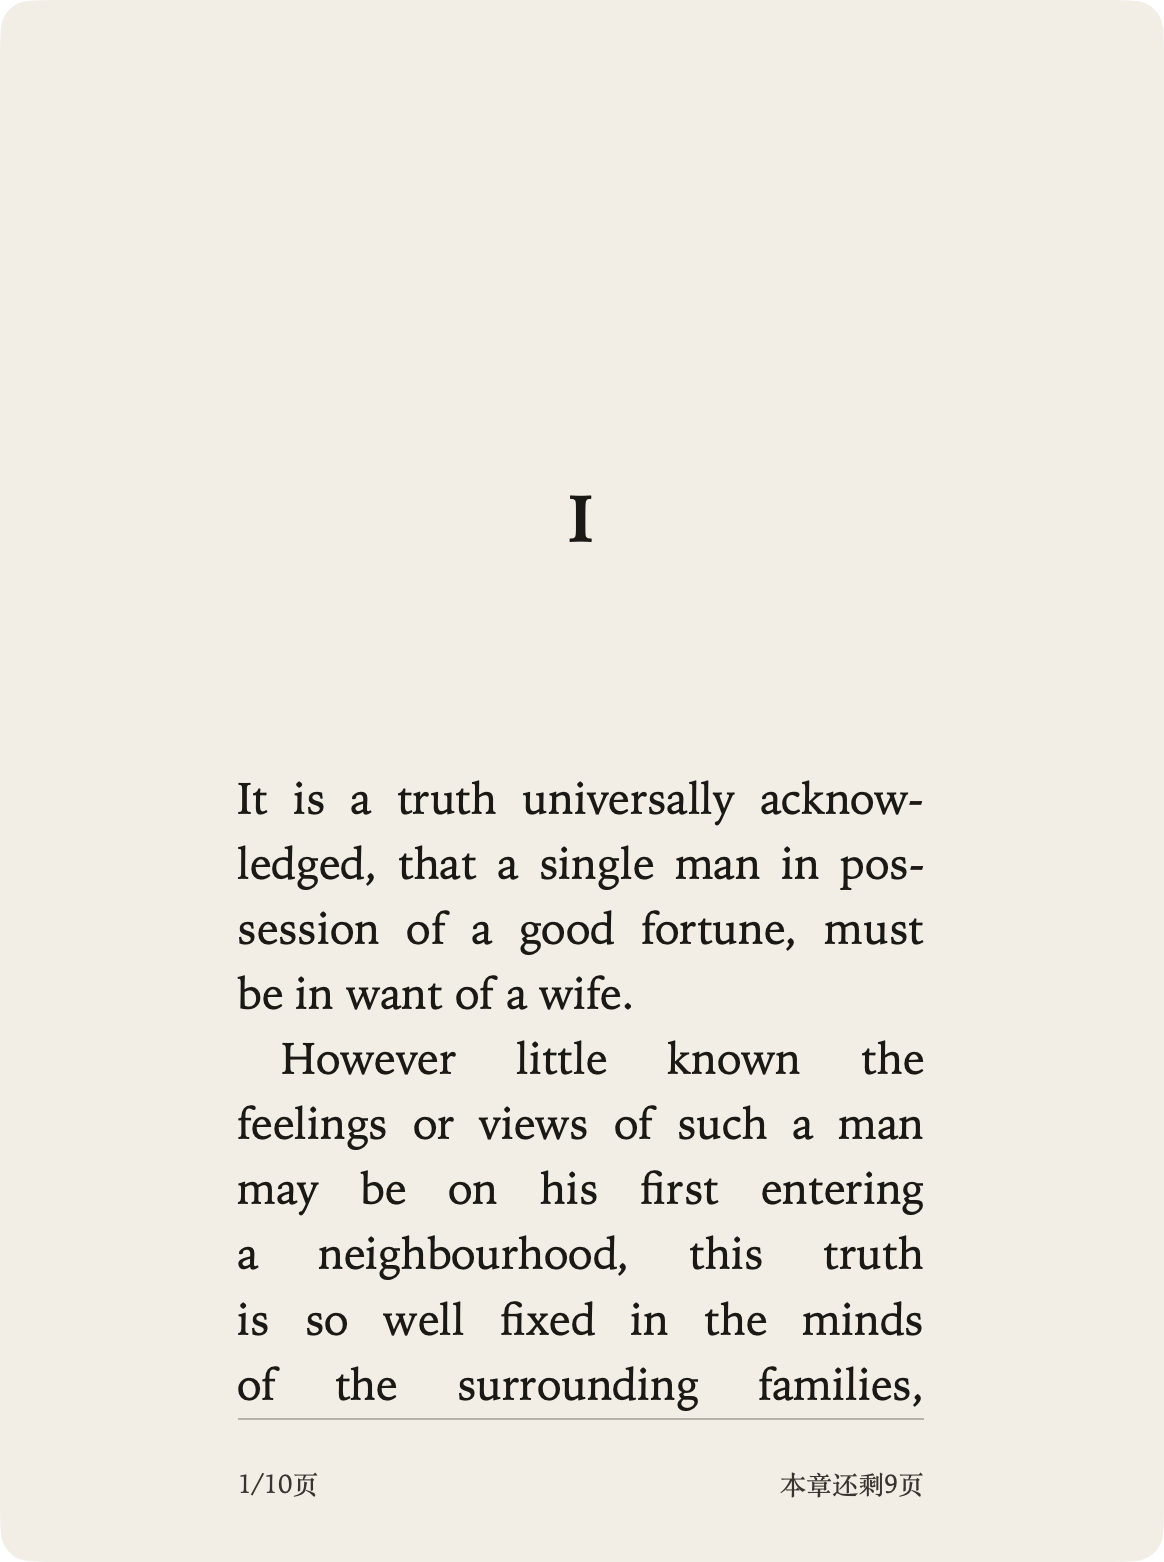
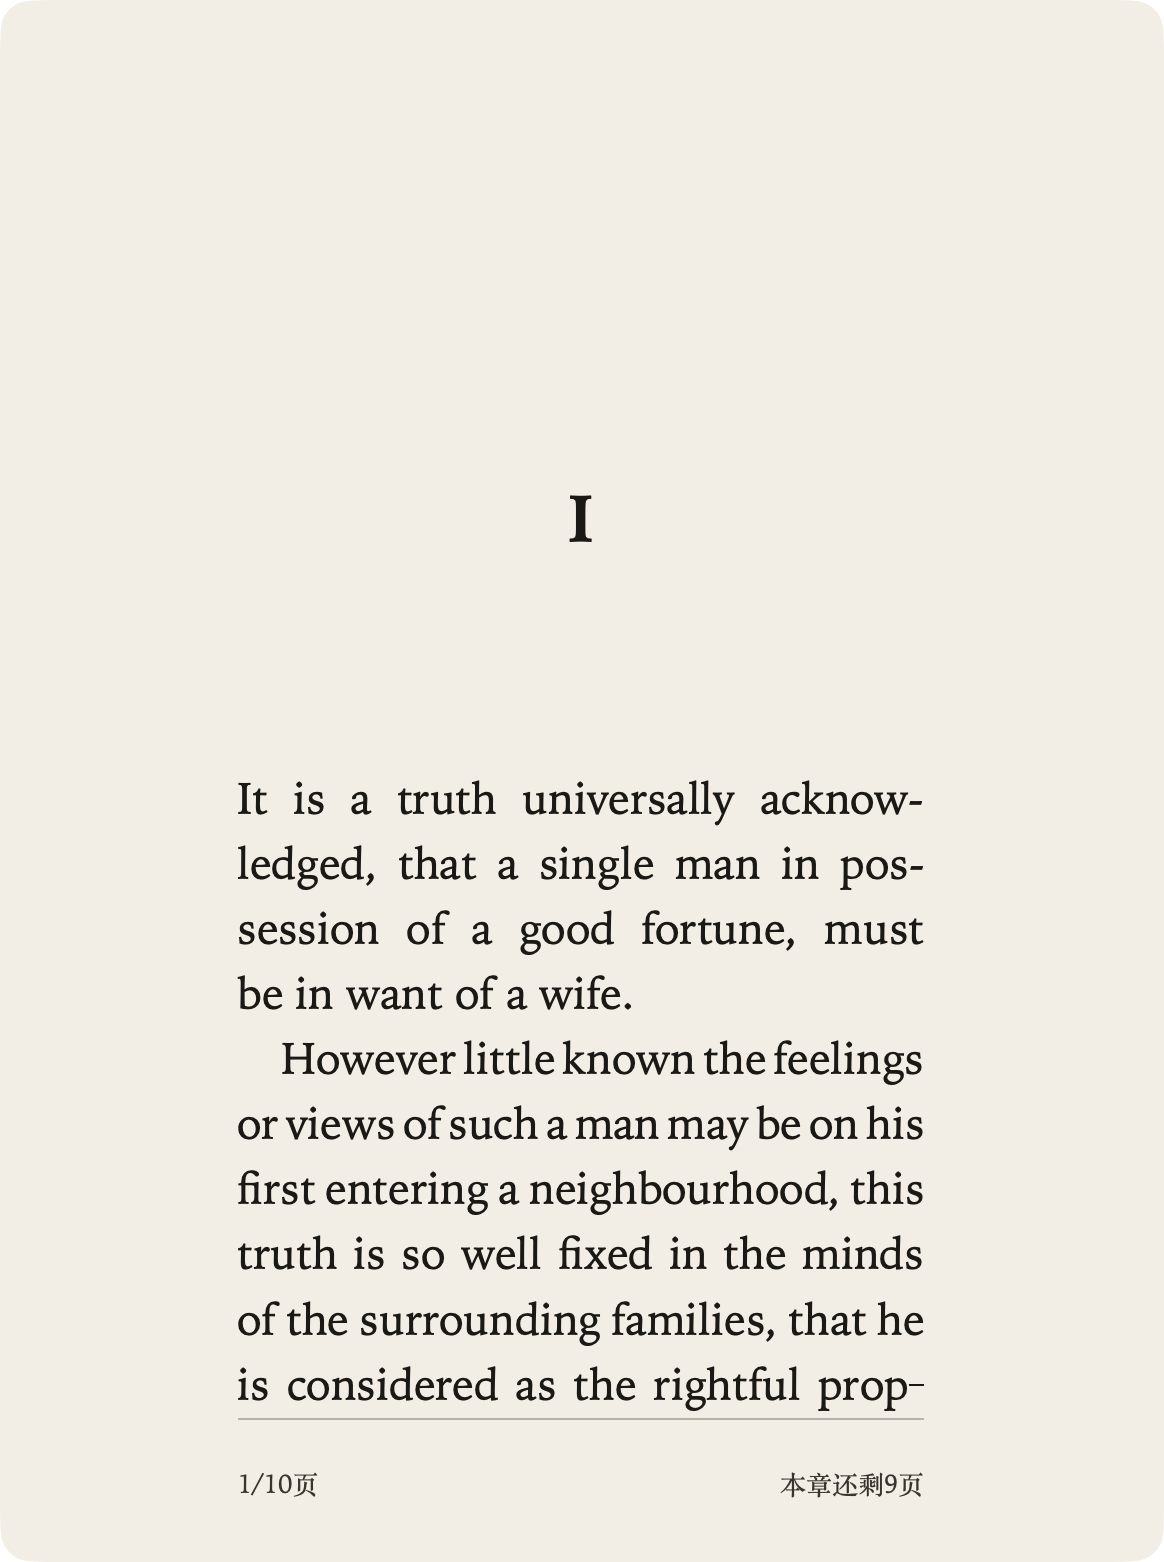
fix(shell): scale full screen from the windowed page
The design page was taken from the visible frame, which grows when the menu bar hides, so the type did not match the open window. The footer insets follow the paragraph's used padding.

Changed region(s): [[0.1856, 0.6453, 0.8041, 0.9219]]

diff --git a/spikes/shell/src/chrome.rs b/spikes/shell/src/chrome.rs
@@ -46,6 +46,7 @@ pub struct Runtime {
     styled: Cell<bool>,
     entering: Cell<bool>,
     field: RefCell<Option<Retained<NSTextField>>>,
+    pub design_visible: Cell<(f64, f64)>,
 }
 
 impl Default for Runtime {
@@ -73,6 +74,7 @@ impl Default for Runtime {
             styled: Cell::new(false),
             entering: Cell::new(false),
             field: RefCell::new(None),
+            design_visible: Cell::new((0.0, 0.0)),
         }
     }
 }
@@ -120,15 +122,30 @@ pub fn content_box(stage_w: f64, stage_h: f64) -> (f64, f64, f64, f64) {
     (box_w, box_h, SIDE, TOP)
 }
 
-pub fn reading_page(ratio_w: f64, ratio_h: f64) -> (f64, f64) {
+pub fn reading_page(
+    ratio_w: f64,
+    ratio_h: f64,
+    full: bool,
+    remembered: &Cell<(f64, f64)>,
+) -> (f64, f64) {
     let Some(mtm) = MainThreadMarker::new() else {
         return (1.0, 1.0);
     };
     let Some(screen) = NSScreen::mainScreen(mtm) else {
         return (1.0, 1.0);
     };
-    let visible = screen.visibleFrame();
-    let frame = fit(ratio_w, ratio_h, visible.size.width, visible.size.height);
+    let visible = screen.visibleFrame().size;
+    let saved = remembered.get();
+    if !full && (saved.0 < 1.0 || visible.height <= saved.1 + 1.0) {
+        remembered.set((visible.width, visible.height));
+    }
+    let saved = remembered.get();
+    let (width, height) = if saved.0 > 1.0 {
+        saved
+    } else {
+        (visible.width, visible.height)
+    };
+    let frame = fit(ratio_w, ratio_h, width, height);
     (frame.page_w, frame.page_h)
 }
 

diff --git a/spikes/shell/src/reading.rs b/spikes/shell/src/reading.rs
@@ -464,8 +464,24 @@ const SCRIPT: &str = r#"
     if (number) number.textContent = num || '';
     if (remain) remain.textContent = rest || '';
   };
+  function alignFooter() {
+    const bar = ensureFooter();
+    const probe = document.querySelector('p, h1, h2');
+    if (!probe) return;
+    const pcs = getComputedStyle(probe);
+    const rule = bar.querySelector('.rule');
+    const row = bar.querySelector('.row');
+    if (rule) {
+      rule.style.marginLeft = pcs.paddingLeft;
+      rule.style.marginRight = pcs.paddingRight;
+    }
+    if (row) {
+      row.style.marginLeft = pcs.paddingLeft;
+      row.style.marginRight = pcs.paddingRight;
+    }
+  }
   function columnFill() {
-    ensureFooter();
+    alignFooter();
     const line = parseFloat(getComputedStyle(root).lineHeight) || 32;
     const box = root.getBoundingClientRect();
     let last = 0;

diff --git a/spikes/shell/src/stage.rs b/spikes/shell/src/stage.rs
@@ -751,7 +751,12 @@ impl State {
         let (ix, iy, w, h) = crate::reading::fit_page(box_w, box_h, rw, rh);
         let x = left + ix;
         let y = top + iy;
-        let design = crate::chrome::reading_page(rw, rh);
+        let design = crate::chrome::reading_page(
+            rw,
+            rh,
+            self.chrome.full.get(),
+            &self.chrome.design_visible,
+        );
         let zoom = if self.chrome.full.get() && design.1 > 1.0 {
             (h / design.1).max(1.0)
         } else {
